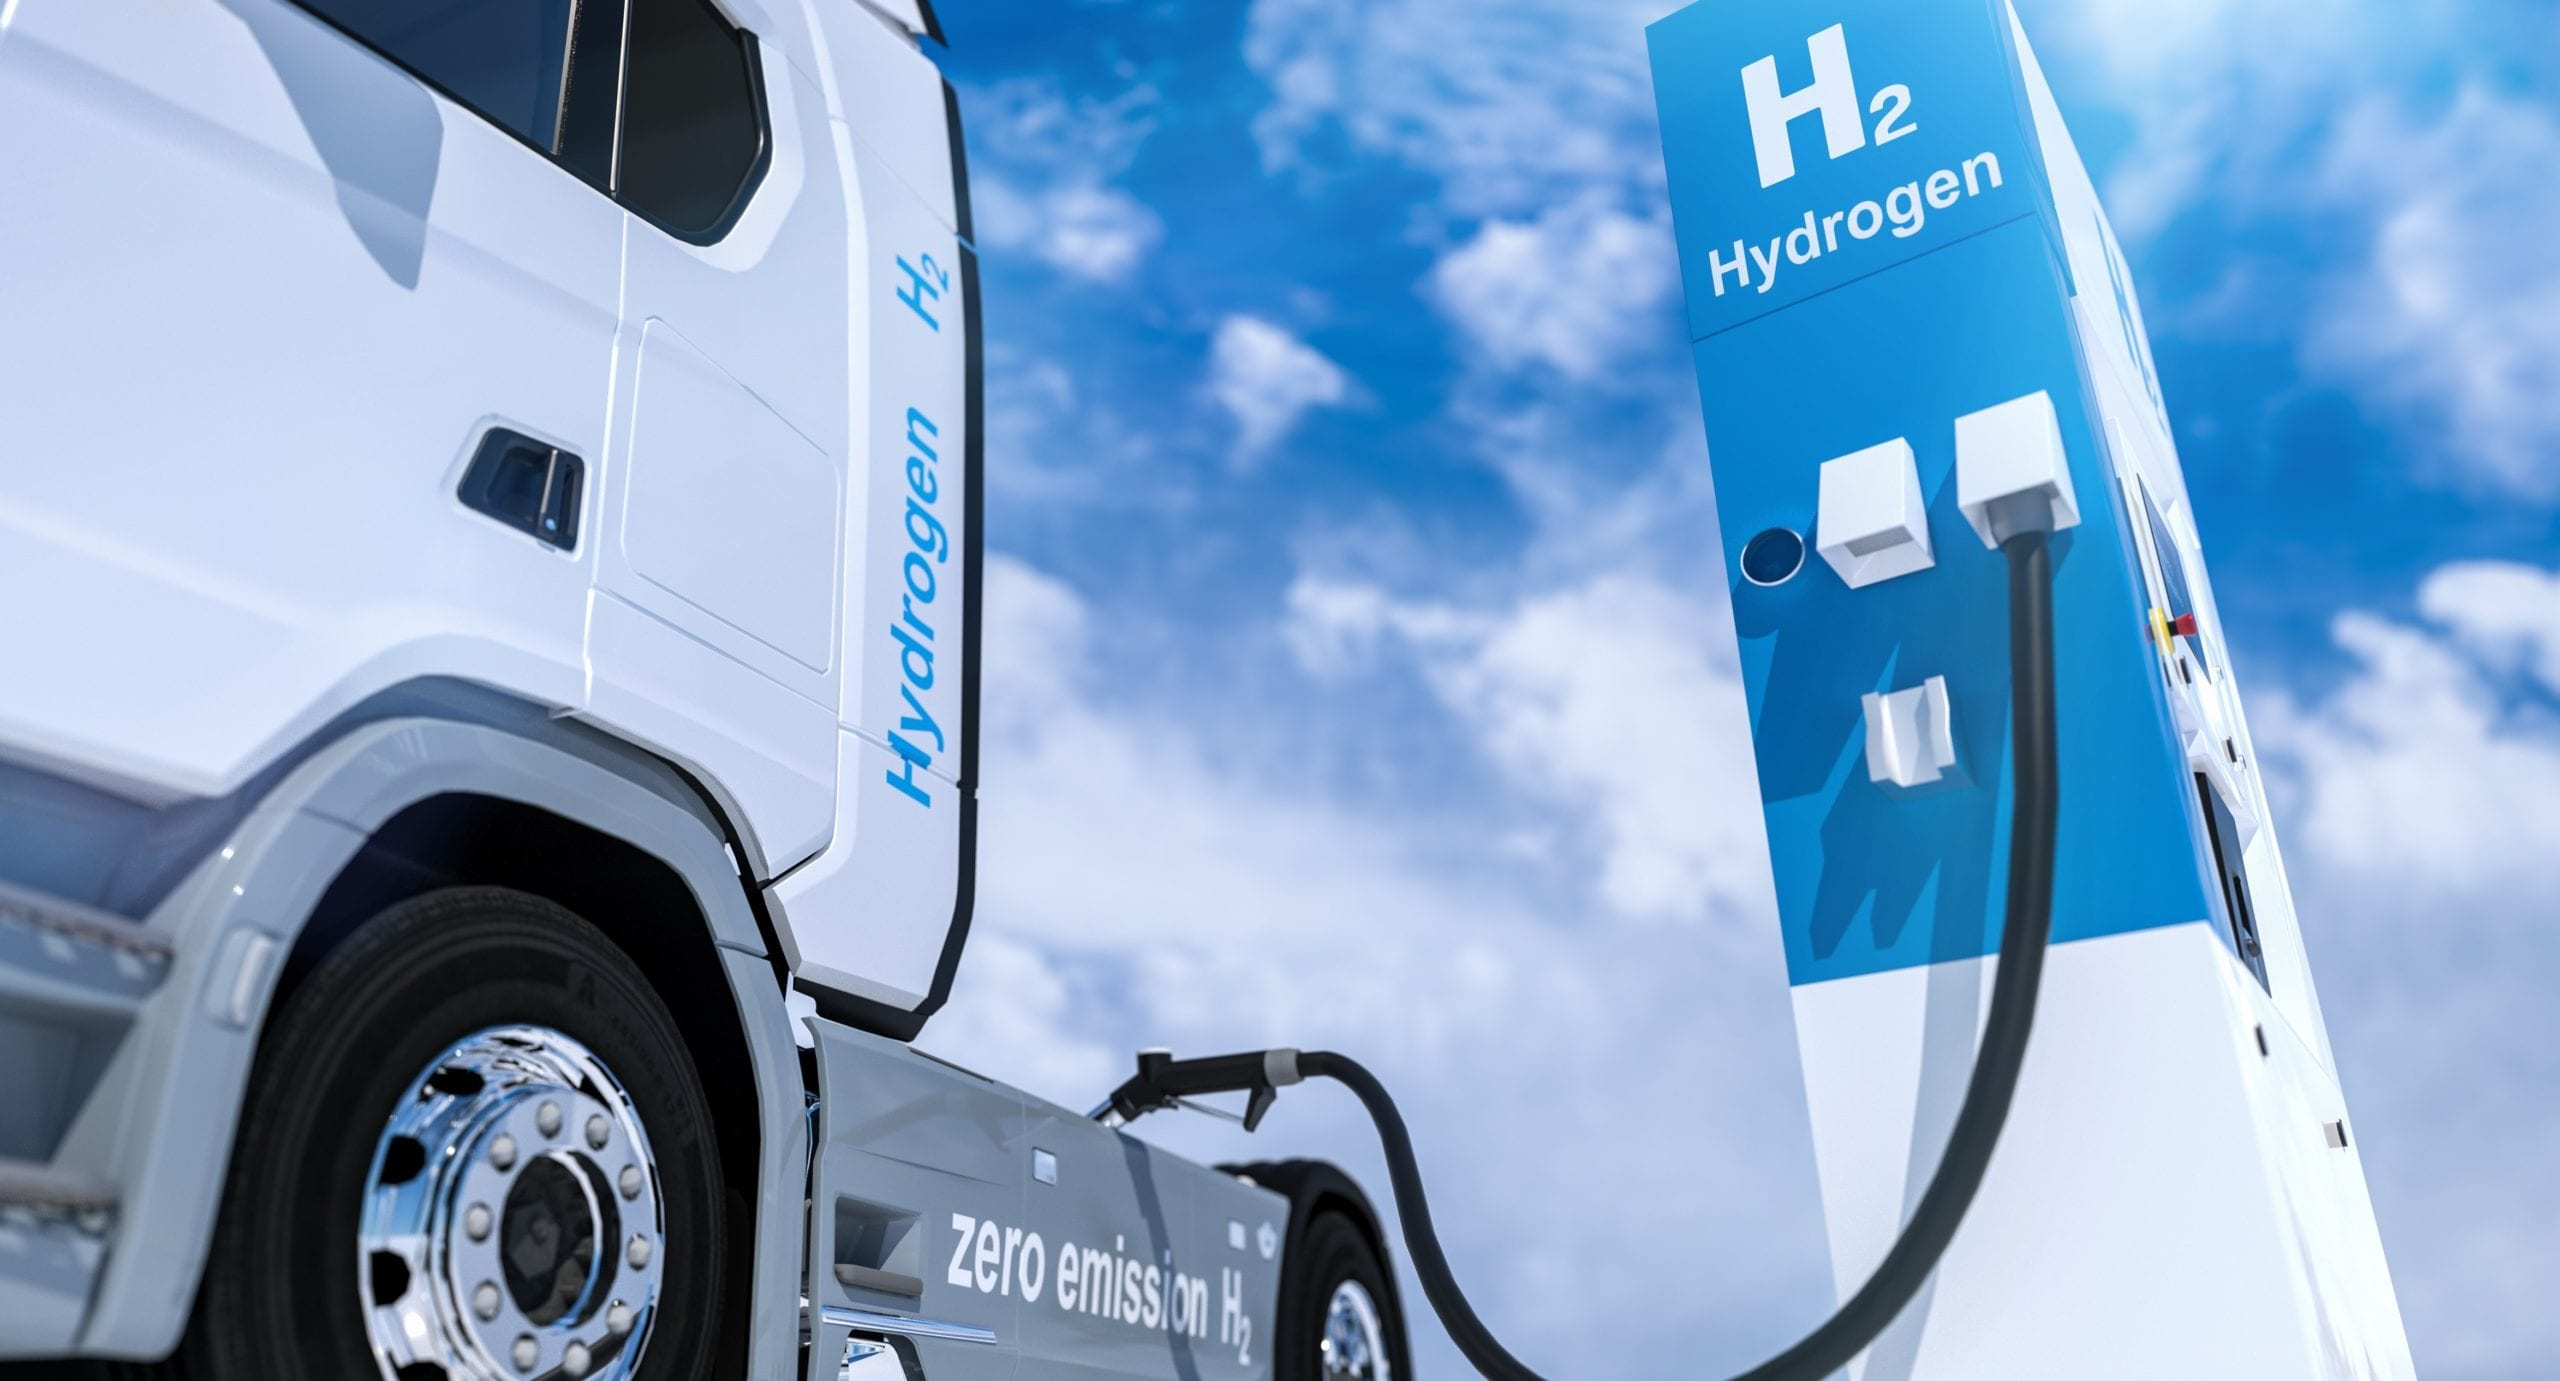
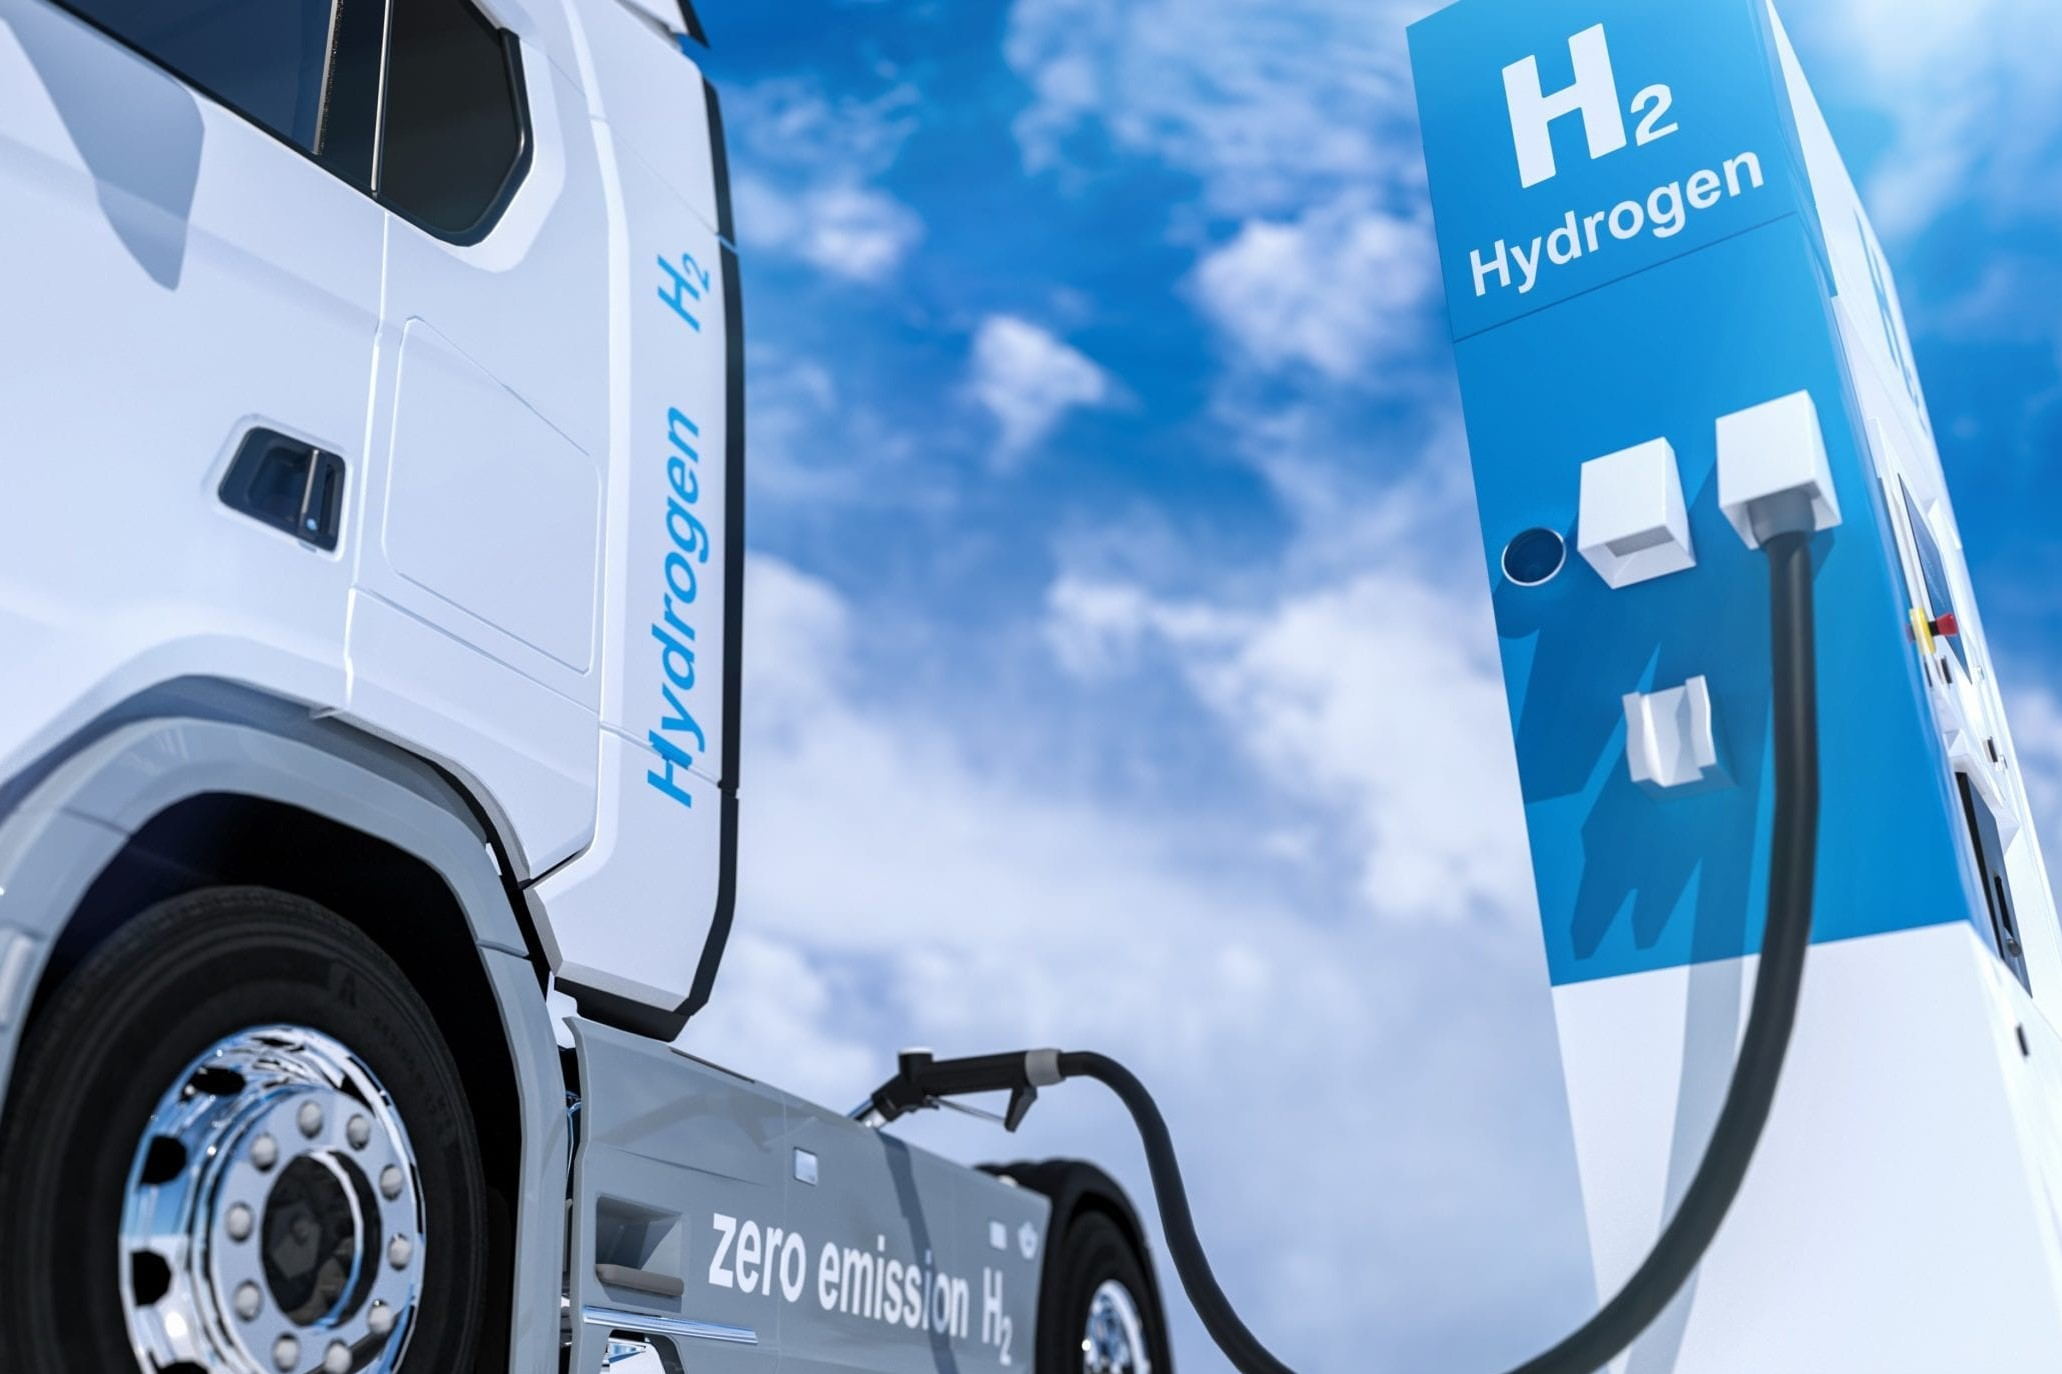
Replace h2-truck image with a resized version, to make images uniform size. Increase margin-left on form and add media query to form

diff --git a/assets/css/style.css b/assets/css/style.css
@@ -270,7 +270,7 @@ img {
 /*contact us page*/
 #contact {
     color: #3a3a3a;
-    margin-left: 10%;
+    margin-left: 30%;
 }
 
 #contact h4 {
@@ -361,6 +361,10 @@ img {
 
     .icon-box {
         width: 50%;
+    }
+
+    #contact {
+        margin-left: 10%;
     }
 } 
 
